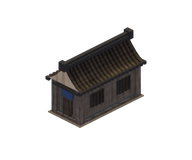
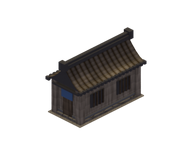
v2608222349 V-04区画単位コピペ(長屋列・侍屋敷連続)の修正とVAR-02/03ルール化: パトロール台帳V-04対応。(1)根因診断: machiya列はv1-v3交互配置済みだが密集列では遮蔽で屋根+妻面しか見えず、v1/v2が同一瓦マテリアル+白漆喰ケラバ共有のため実効差分83-140でも列が同一に読めた(屋根帯luma v1=50.9/v2=38.6/v3=86.6)。p07「農家6連」の実体はsamurai_residence単一ラスタ・バリアント無し・8セルピッチ整列の構造的コピペ。(2)machiya修正: v2屋根を風化瓦(暖色茶系)+木製ケラバに分岐(machi

Changed region(s): [[0.25, 0.25, 0.75, 0.5938]]

diff --git a/packages/simulation/src/connectedBuildings.test.ts b/packages/simulation/src/connectedBuildings.test.ts
@@ -1,5 +1,6 @@
 import { describe, expect, it } from "vitest";
 import { applyCommand, createInitialWorld, snapshotWorld, type WorldState } from "./index";
+import { samuraiResidenceVariantAssetId } from "./buildings";
 import type { BuildingSnapshot, BuildingType, CellCoord } from "@asama/shared";
 
 let clientSequence = 0;
@@ -222,6 +223,51 @@ describe("town block visual variants", () => {
     }
     const ids = new Set(positions.map((position) => buildingAt(world, position).assetId));
     expect(ids.size).toBeGreaterThanOrEqual(3);
+  });
+});
+
+describe("samurai residence visual variants", () => {
+  function freshWorld(): WorldState {
+    const world = createInitialWorld();
+    normalizeMap(world);
+    resetBuildings(world);
+    return world;
+  }
+
+  it("assigns a variant assetId from the samurai residence family", () => {
+    const world = freshWorld();
+    place(world, "samurai_residence", { x: 40, y: 40 });
+    expect(buildingAt(world, { x: 40, y: 40 }).assetId).toMatch(/^building\.samurai_residence(\.v[2-3])?$/);
+  });
+
+  it("is deterministic for the same coordinate across worlds", () => {
+    const first = freshWorld();
+    const second = freshWorld();
+    for (const position of [{ x: 40, y: 40 }, { x: 48, y: 40 }, { x: 40, y: 48 }, { x: 64, y: 64 }]) {
+      place(first, "samurai_residence", position);
+      place(second, "samurai_residence", position);
+      expect(buildingAt(first, position).assetId).toBe(buildingAt(second, position).assetId);
+    }
+  });
+
+  it("varies along a row of compounds", () => {
+    const world = freshWorld();
+    const positions = [24, 32, 40, 48, 56, 64].map((x) => ({ x, y: 40 }));
+    for (const position of positions) {
+      place(world, "samurai_residence", position);
+    }
+    const ids = new Set(positions.map((position) => buildingAt(world, position).assetId));
+    expect(ids.size).toBeGreaterThanOrEqual(2);
+  });
+
+  it("never repeats a variant on orthogonally adjacent compounds (8-cell pitch)", () => {
+    for (let x = 0; x < 160; x += 8) {
+      for (let y = 0; y < 160; y += 8) {
+        const here = samuraiResidenceVariantAssetId({ x, y });
+        expect(samuraiResidenceVariantAssetId({ x: x + 8, y })).not.toBe(here);
+        expect(samuraiResidenceVariantAssetId({ x, y: y + 8 })).not.toBe(here);
+      }
+    }
   });
 });
 

diff --git a/packages/simulation/src/buildings.ts b/packages/simulation/src/buildings.ts
@@ -432,6 +432,10 @@ export function connectedBuildingAssetId(world: WorldState, building: BuildingSt
     return townBlockVariantAssetId(building.position);
   }
 
+  if (building.type === "samurai_residence") {
+    return samuraiResidenceVariantAssetId(building.position);
+  }
+
   if (building.type === "machiya" || building.type === "machiya_ne_sw") {
     return machiyaVariantAssetId(building.type, building.position);
   }
@@ -520,6 +524,31 @@ export function machiyaVariantAssetId(type: "machiya" | "machiya_ne_sw", positio
   const variant = ((((position.x + 2 * position.y + h) % MACHIYA_VARIANT_COUNT) + MACHIYA_VARIANT_COUNT) % MACHIYA_VARIANT_COUNT) + 1;
   const orientation = type === "machiya_ne_sw" ? "ne_sw" : "nw_se";
   return `building.machiya.${orientation}.v${variant}`;
+}
+
+/**
+ * Samurai residences are placed as rows of identical 4x4 compounds on an
+ * 8-cell pitch (the p07 patrol view showed six copies in one frame), so the
+ * single raster gets two tone-family siblings (v2 warm, v3 cool-mossy).
+ * Position-cycled like machiya, not hashed: x/8 mod 3 cycles along a row, so
+ * a horizontal run never shows the same compound twice — a pure hash left
+ * identical pairs adjacent in the p07 review. Each row's phase advances by a
+ * hash-picked step of 1 or 2 (never 3 ≡ 0), so vertical neighbors always
+ * differ too and no two adjacent rows repeat the same sequence.
+ */
+export const SAMURAI_RESIDENCE_VARIANT_COUNT = 3;
+
+export function samuraiResidenceVariantAssetId(position: CellCoord): string {
+  const row = Math.floor(position.y / 8);
+  let phase = 0;
+  for (let r = 1; r <= row; r += 1) {
+    let h = (r * 668265263 + 331817) >>> 0;
+    h = (h ^ (h >>> 13)) >>> 0;
+    phase += 1 + (h & 1);
+  }
+  const cycle = Math.floor(position.x / 8) + phase;
+  const variant = ((cycle % SAMURAI_RESIDENCE_VARIANT_COUNT) + SAMURAI_RESIDENCE_VARIANT_COUNT) % SAMURAI_RESIDENCE_VARIANT_COUNT;
+  return variant === 0 ? "building.samurai_residence" : `building.samurai_residence.v${variant + 1}`;
 }
 
 export const TOWN_BLOCK_VARIANT_COUNT = 5;

diff --git a/assets/source/blender/scripts/render_asset_lib/machiya/builders.py b/assets/source/blender/scripts/render_asset_lib/machiya/builders.py
@@ -4,7 +4,9 @@ Duplicated rather than imported: the isolated cache key hashes only this
 package plus core.py/materials.py, so importing geometry from buildings.py or
 vegetation.py would let those files change without invalidating machiya
 renders. Divergence from the source copy is intentional only in the material
-set (weathered, sun-bleached planks for the v2 body and v3 itabuki roof).
+set (weathered, sun-bleached planks for the v2 body and v3 itabuki roof, and
+the v2-only weathered kawara roof + wood verge that keep packed rows from
+reading as one repeated unit — in rows only roofs/gables stay visible).
 """
 from __future__ import annotations
 
@@ -19,6 +21,7 @@ from ..materials import (
     make_fringed_pad_material,
     make_material,
     make_plank_material,
+    make_showcase_roof,
     prop_materials,
 )
 
@@ -40,6 +43,21 @@ def machiya_material_set() -> dict[str, bpy.types.Material]:
     mats["itabuki_plank"] = make_plank_material(
         "MachiyaItabukiPlank", (0.165, 0.150, 0.120), (0.300, 0.272, 0.220)
     )
+    # In packed rows only the roof + gable stay visible (bodies occlude each
+    # other), so v2 gets its own roof family: sun-bleached warm-brown kawara,
+    # clearly lighter than the v1 ibushi dark and coarser in column rhythm.
+    weathered = dict(
+        name="MachiyaRoofWeathered",
+        base_dark=(0.112, 0.090, 0.062),
+        base_light=(0.215, 0.172, 0.112),
+        mud=(0.115, 0.090, 0.058),
+        columns=7.0,
+        seam=(0.50, 0.42, 0.29),
+        grime_strength=0.42,
+    )
+    mats["roof_v2"] = make_showcase_roof("x", **weathered)
+    weathered["name"] = "MachiyaRoofWeatheredY"
+    mats["roof_v2_y"] = make_showcase_roof("y", **weathered)
     return mats
 
 
@@ -221,7 +239,7 @@ def build_machiya(scene: bpy.types.Scene, variant: int = 1, orientation: str = "
                 bar += 0.095
         add_kawara_roof(
             scene, "MachiyaRoof", *rect((-2.0, -1.0), (0.0, 0.0)), wall_top, ridge_top, axis,
-            mats["roof"] if axis == "x" else mats["roof_y"], mats["trim"], verge_material=mats["plaster"],
+            mats["roof_v2"] if axis == "x" else mats["roof_v2_y"], mats["trim"], verge_material=mats["trim"],
         )
     else:
         # Itabuki cottage: low plank walls under a stone-weighted board roof.

diff --git a/docs/05_map-and-art/visual-patrol-ledger.md b/docs/05_map-and-art/visual-patrol-ledger.md
@@ -123,15 +123,37 @@ composite-lint)して機械検査へ昇格。
   composite-lint 全12ビュー error 0、artLint新規違反0。
 - 残課題(V-06へ引継ぎ): 水に接する崖面・櫓基部のウォーターライン/接地影。
 
-### V-04 区画単位コピペ(長屋列・農家) — 高 / open
+### V-04 区画単位コピペ(長屋列・農家) — 高 / closed(ルール化済み)
 
 - 出現: p03(長屋3-4列が同一ユニット長連=「この巡回で最強の違和感」),
   p07(同一農家コンパウンド6連), p08(長屋5連×複数列), p01右中段
 - 症状: 町ブロック/長屋ラスタが列方向に同一絵で並び「暗い縞の塊」化。
   白漆喰塀の汚れ・継ぎ目も全セル同位置(p10)。
-- 実装方針: 町ブロックラスタのバリアント数増+列内交互配置は導入済みのため、
-  残るのは「列全体が同一ラスタ」ケースの選択則と、ファサード暗部の帯状連結
-  (V-06と関連)。次サイクルで対応。
+- 根因(2026-08-22診断):
+  1. **machiya列**: v1-v3は正しく交互配置されていたが、密集列では遮蔽で
+     **屋根+妻面しか見えず**、v1/v2が同一瓦マテリアル+白漆喰ケラバを共有
+     していたため実効差分83-140でも列は同一に読めた(屋根帯luma v1=50.9/
+     v2=38.6/v3=86.6 — v1/v2はトーン差のみ)。
+  2. **p07「農家」の実体はsamurai_residence**: 単一ラスタでバリアント無し、
+     8セルピッチの整列配置で構造的に6連コピペ化。
+- 実施した修正:
+  1. machiya v2の屋根を風化瓦(暖色茶系)+木製ケラバに分岐
+     (render_asset_lib/machiya 分離レジストリ、対象アセットのみ再レンダー)。
+     列がv1暗瓦/白ケラバ・v2暖瓦/木ケラバ・v3板葺きの3リズムに。
+  2. samurai_residenceにv2(暖トーン)/v3(寒・苔)ラスタ派生を追加
+     (meanAbsDiff 17.3/17.0でVAR-01床値クリア)、選択は位置循環+行毎位相
+     (x/8 mod 3、行位相ステップ1..2累進)で直交隣接の同一を構造的に排除。
+     初版の純ハッシュは隣接同一ペアを残しL2レビューで条件付き判定 → 循環式に
+     置換し単体テストで隣接非同一を保証。
+- ルール化: art-rulebookに**VAR-02(可視帯で差をつける)**・
+  **VAR-03(等ピッチ列の選択は循環式)**を追加。VAR-01(実効差分床値)は
+  samuraiプールを自動カバー。
+- 検証: p03/p07/p08同一ビュー再撮影(2026-08-22T14-37-00)、別コンテキスト
+  VLM前後比較でp03/p08合格・p07は循環式置換後に隣接同一解消、新規違和感なし。
+  composite-lint error 0(info4件は既知V-05)、artLint新規違反0、
+  simulation 271テスト緑(隣接非同一テスト含む)。
+- 残課題: p08でv1/v2交互がやや規則的(チェッカーボード気味)との観察 — 
+  現状非objectionable、広域ズームで再発したら位相ステップの多様化で対応。
 
 ### V-05 塀・道・柵の直線ラン — 中 / open(既知設計負債)
 

diff --git a/docs/05_map-and-art/art-rulebook.md b/docs/05_map-and-art/art-rulebook.md
@@ -45,6 +45,8 @@ L1(機械lint: `assets:lint:art`)または L2(VLMセルフレビュー)のどち
 | ID | ルール | 検証 |
 |---|---|---|
 | VAR-01 | バリアントプール(`<base>.p<n>` / `<base>.v<n>` 形式でbase assetIdがマニフェストに存在するもの)の各メンバーは、baseとの**meanAbsDiff(相互不透過画素の3ch絶対差合計平均)が12以上**であること。プールが存在してもメンバーが画素同一なら反復対策機構は空回りし、COMP-03(REP)はassetIdの直線ランしか見ないため検出できない(堀・川のp1-p3が実測8-13で実質同一だったV-01事故のブラインドスポット)。真に差があるプールはtown_blockで99+、事故帯は5-15。既存のサブ可視ペア(terrain.water/grass/dirtのv系など静的レジストリ側)はルール例外ではなく `art-lint-baseline.json` に既知違反として記録 — 新規バリアントは床値を満たすこと | L1: `assets:lint:art` |
+| VAR-02 | **可視帯で差をつける**: バリアントの差分は、そのアセットが実マップで露出する画素帯に置くこと。密集列では手前の建物が胴体を遮蔽し**屋根+妻面しか見えない**ため、壁・庭だけを変えたバリアントはmeanAbsDiffが大きくても列は同一に読める(V-04: machiya v1/v2は差分83-140だったが屋根が同一瓦マテリアルで列の反復感が残存 — v2屋根を風化瓦+木製ケラバに分岐して解消)。密集列ファミリは屋根マテリアル/妻面から差をつける | L2: 実マップビューで確認 |
+| VAR-03 | **等ピッチ列の選択は循環式**: 一定ピッチで並ぶ建物ファミリ(machiya 2セル、samurai_residence 8セル)のバリアント選択は純ハッシュではなく**位置循環+行毎位相**(x/pitch mod n、行位相は1..n-1のステップで累進し隣接行の同一シーケンス化も防ぐ)にすること。純ハッシュは隣接同一ペアを確率的に残す(V-04初版レビューで指摘)。プールが小さい(n=3)ほど必須 | 単体テスト(隣接非同一) |
 
 ## COMP: コンポジット整合(マップスケールL1機械検査)
 
